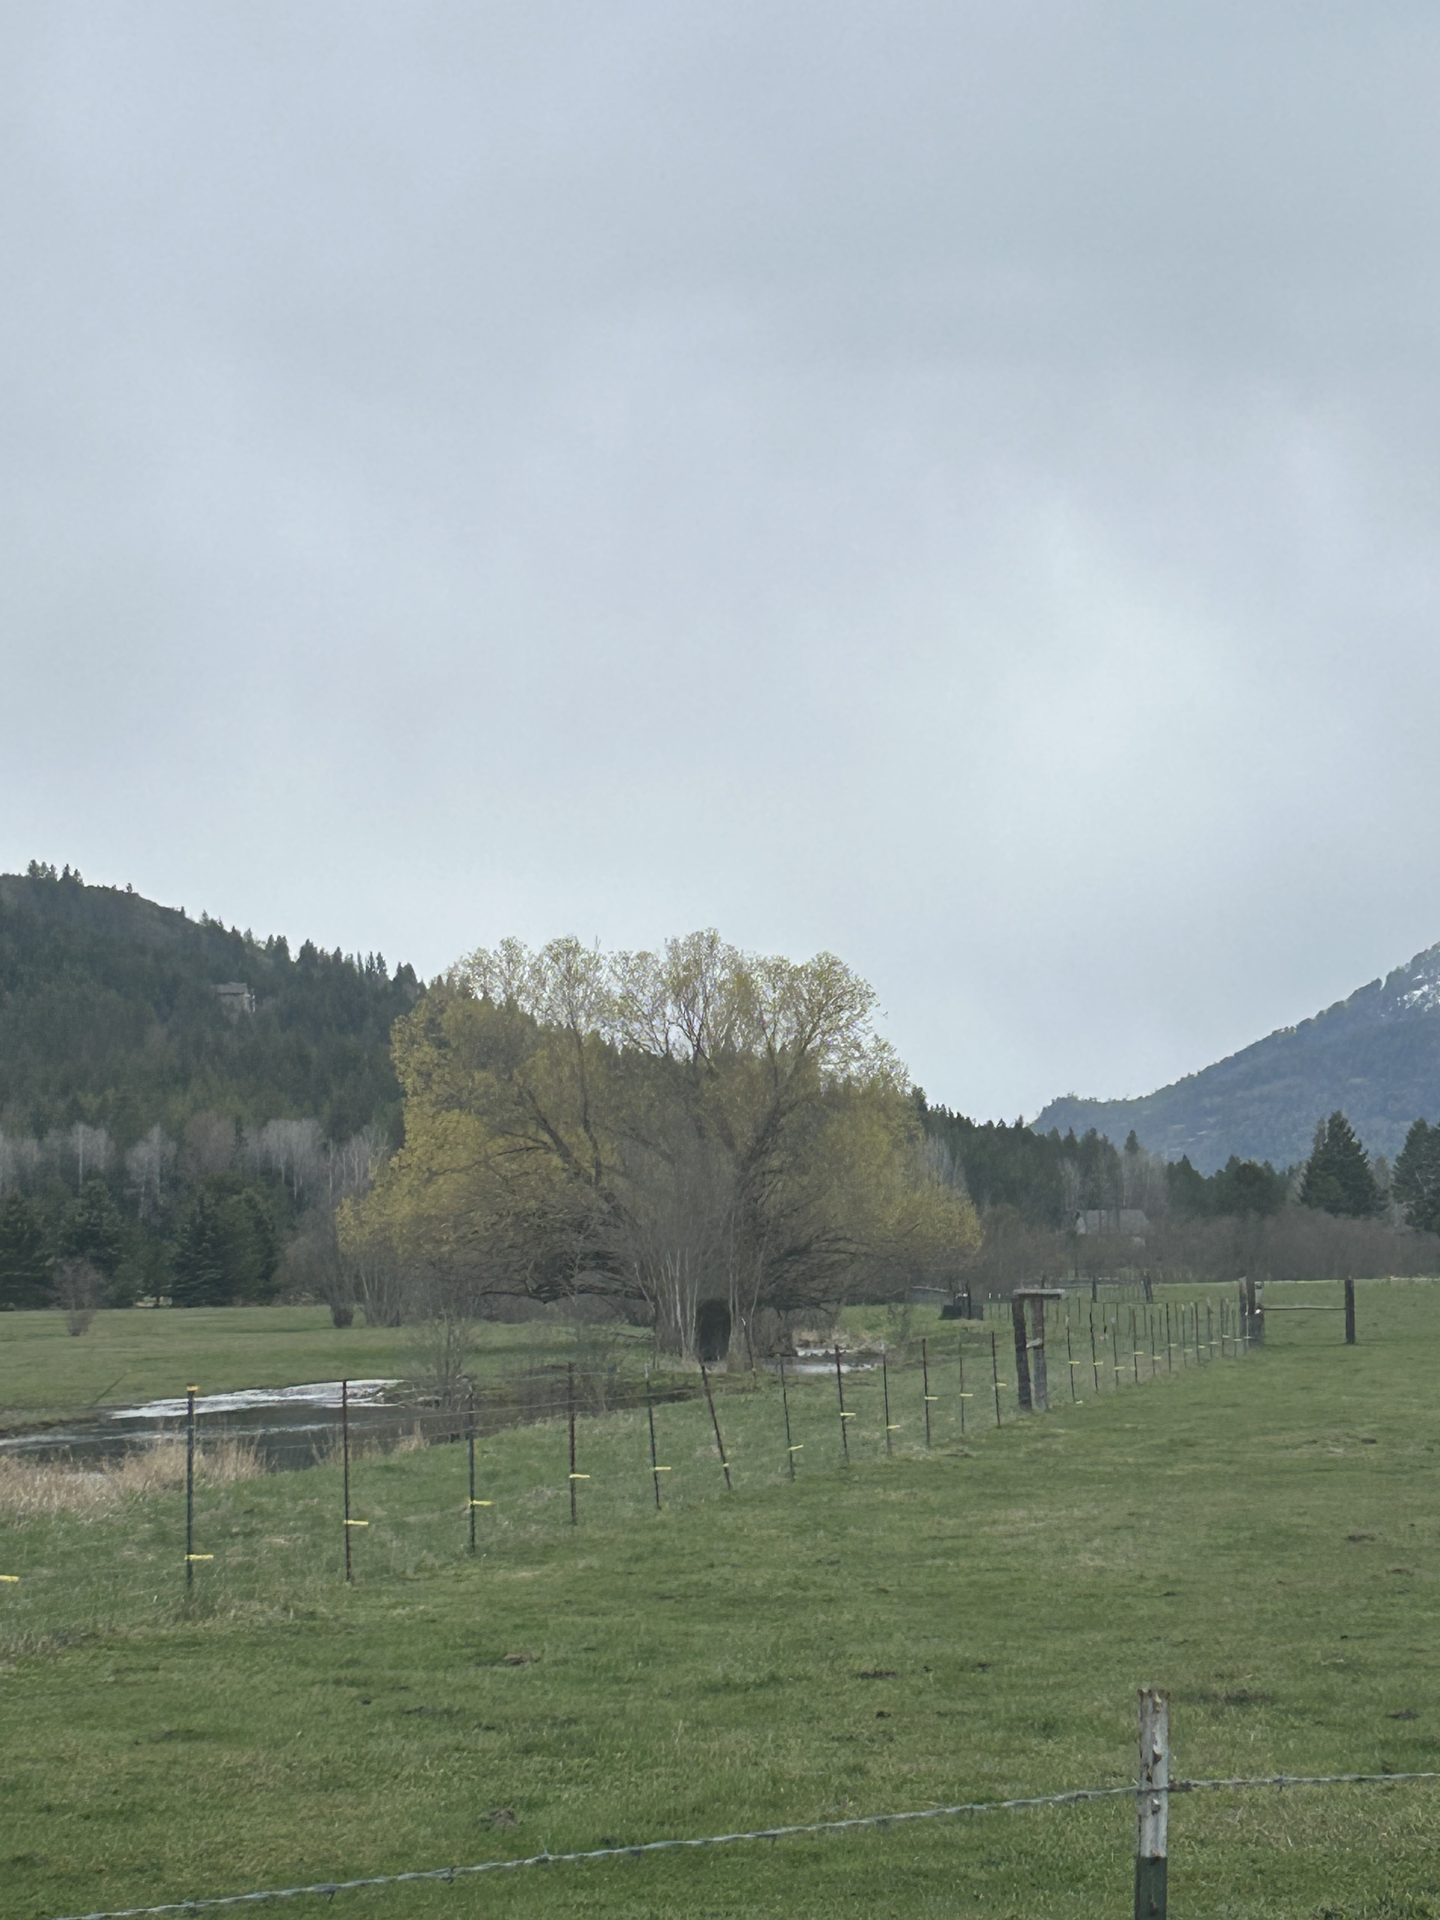
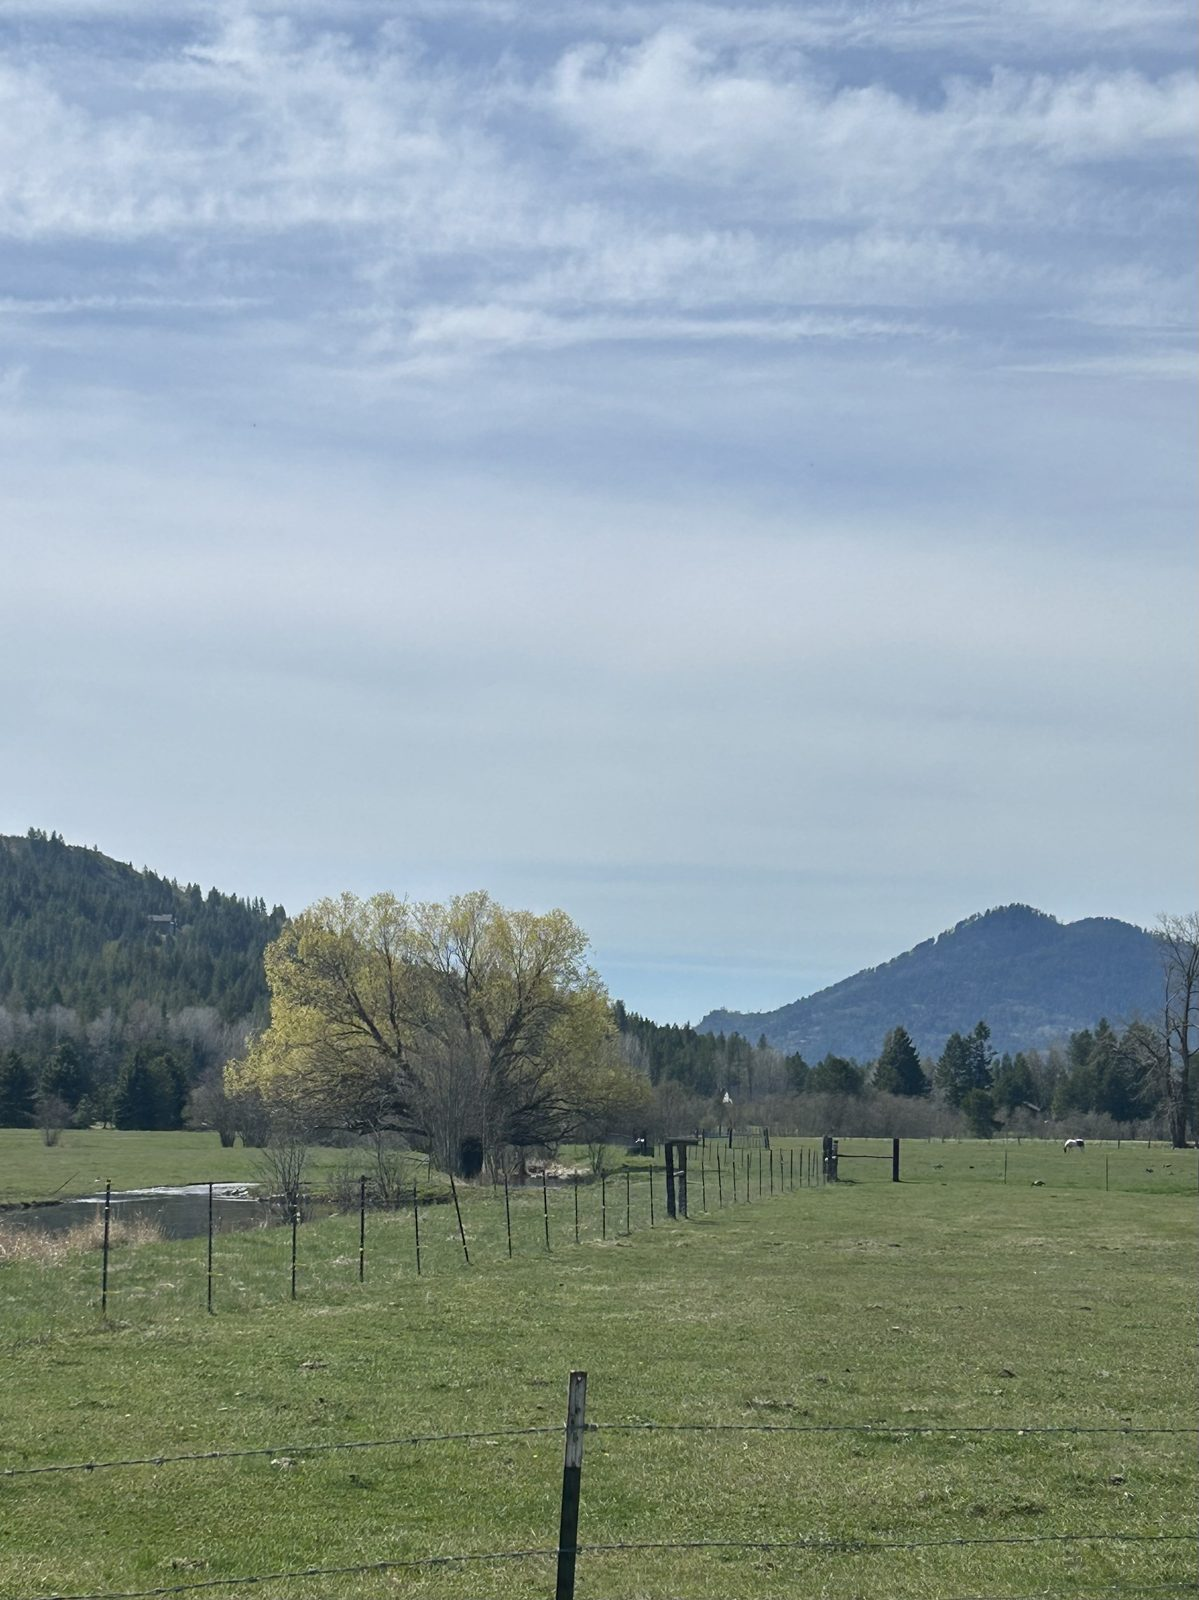
new photo
photo and pics

diff --git a/jeffrey-river/css/styles.css b/jeffrey-river/css/styles.css
@@ -278,15 +278,25 @@ p { margin: 0 0 1em; }
   letter-spacing: 0.1em;
   text-transform: uppercase;
   position: relative;
-  padding: 0.9em 0.9em 0.7em;
-  /* Pick shape: ~3/4 visible — rounded top tapering toward a point at bottom */
-  border-radius: 46% 46% 18% 18% / 50% 50% 22% 22%;
+  padding: 1.1em 1.1em 1.5em;
+  /* Guitar pick shape — wider body, gentle top radius, flat bottom snip */
+  border-radius: 0;
   background: var(--sage);
   transition: transform .2s var(--ease), background .2s var(--ease), box-shadow .2s var(--ease);
   text-align: center;
-  min-width: 60px;
+  min-width: 64px;
   line-height: 1.2;
-  clip-path: polygon(0% 0%, 100% 0%, 95% 85%, 50% 100%, 5% 85%);
+  clip-path: polygon(
+    39% 100%, 61% 100%,
+    63% 95%, 67% 86%, 72% 76%, 77% 68%, 82% 59%,
+    86% 51%, 89% 43%, 92% 36%, 94% 29%, 95% 22%,
+    95% 17%, 94% 13%, 91% 9%, 87% 6%, 81% 3%, 74% 1%, 65% 0%,
+    50% 0%,
+    35% 0%, 26% 1%, 19% 3%, 13% 6%, 9% 9%, 6% 13%, 5% 17%, 5% 22%,
+    6% 29%, 8% 36%, 11% 43%, 14% 51%, 18% 59%,
+    23% 68%, 28% 76%, 33% 86%, 37% 95%
+  );
+  aspect-ratio: 72 / 76;
 }
 .nav__links a:hover {
   transform: translateY(-3px);
